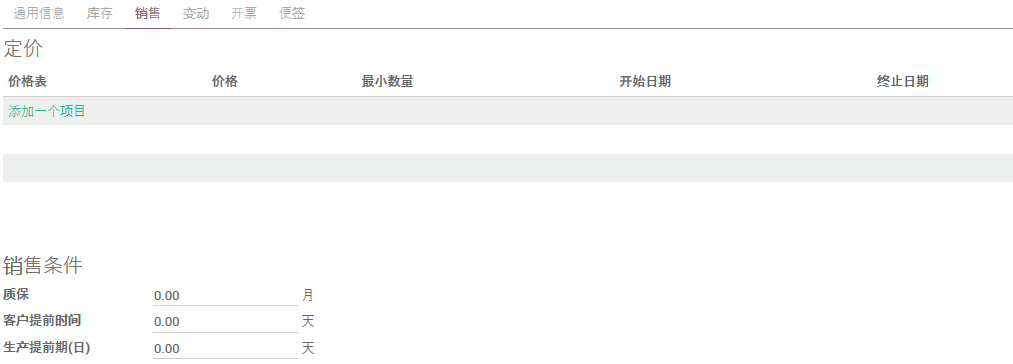
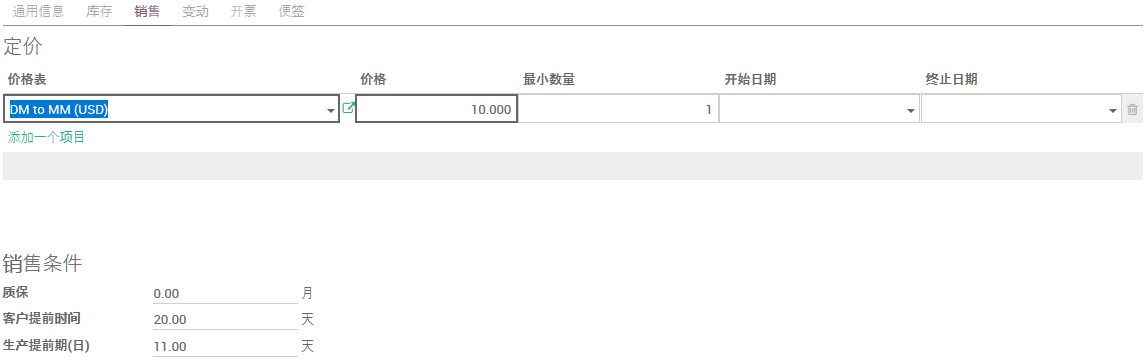
继续完成“产品”，“产品类别”手册。

diff --git a/INV/product.md b/INV/product.md
@@ -22,3 +22,107 @@
 * 具形实物
 * 价格、价值较低，不值得投入时间、精力去管理存货的产品
 * 可调拨，但无实际库存记录，无需盘点
+
+## 新建产品
+
+* 路径1：销售模块 -> 销售 -> 产品
+* 路径2：采购模块 -> 采购 -> 产品
+* 路径3：存货模块 -> 库存控制 -> 产品
+* 路径4：制造模块 -> 产品 -> 产品
+* 路径5：PLM模块 -> 主数据 -> 产品
+
+根据路径不同，进入产品列表（看板）界面时自动应用的删选器会有差异，可根据需要调整筛选器。
+
+![产品：筛选器](_images/product6.PNG)
+
+点击`创建`按钮，以新建产品。
+
+### 产品名称
+
+![产品名称](_images/product.PNG)
+
+使用长度适中且明具分辨力的`产品名称`，对该产品信息在后续的使用非常有利。
+
+* 第一个单词或短语明确产品的实质
+* 根据需要附加适当、适量的限制性短语
+* 若有必要，附上关键的、指标性的技术规格
+* 总体长度要适中
+* 更多、更详细的内容可根据受众分置`报价说明`、`供应商说明`、`拣货描述`
+
+![便签](_images/product5.PNG)
+
+* 根据产品的用途勾选`可销售`、`可被采购`、`可以被费用化`
+
+### 产品通用信息
+
+![产品通用信息](_images/product1.PNG)
+
+* 根据上文选择正确的`产品类型`
+* 输入产品`编码`（Part Number）
+* 选择合理的`内部分类`（参考[产品类别](category.md))
+* `标价`用以记录产品的公开价（也叫目录价格）
+* `成本`通常不包含税金
+* 在多公司环境，`公司`决定了产品`标价`及`成本`等信息的币别
+* `计量单位`为该产品在组织内部存储、流通所用
+* 采购计量单位在采购订单中使用
+* `控制采购订单`为供应商账单的开具方式：
+  * 按`订购数量`开具账单，不管是否已经收货，也不管收货数量多少
+  * 按`收到数量`开具账单，则到货开账单，到多少开多少
+
+### 产品库存
+
+![产品库存](_images/product2.PNG)
+
+* 参考[使用(需求)路线](MRP/using_routes.md)来勾选`路线`
+* `毛重`为1`计量单位`该产品的重量，以公斤计数，不含任何包材
+* `体积`为1`计量单位`该产品的占地尺寸，以立方米计数
+* `跟踪`
+  * `由唯一序列号`：每1`计量单位`该产品都有唯一的跟踪号
+  * `由很多`：每一跟踪批号对应的批量大小通常大于1
+  * `无跟踪信息`：该产品无需跟踪批次
+
+### 供应商报价
+
+![供应商报价：列表](_images/product7.PNG)
+
+* 通过拖动报价行左侧的十字锚可以调整报价的优先顺序
+* 可点击报价行右侧的垃圾桶移除该项报价
+
+![供应商报价：新建](_images/product8.PNG)
+
+* 选择`供应商`
+* 根据需要输入`供应商产品名称`
+* 根据需要输入`供应商产品编码`
+* 输入(供应商)`交货提前期`
+* 在`最少数量`栏输入起订量
+* 输入该起订量对应的`价格`并选择币别
+* 若报价指定了`有效`期，请选择起止日期
+
+### 销售报价
+
+![销售报价](_images/product3.PNG)
+
+* 选择适当的`价格表`
+* 输入`价格`
+* 输入`最小数量`（起订量）
+* 输入报价有效期的`开始日期`和`终止日期`（若有）
+
+* 输入产品的`质保`期(月)
+* 输入`客户提前时间`(日)
+* 输入`生产提前期(日)`
+
+### 税及开票
+
+![税及开票](_images/product4.PNG)
+
+* 选择正确的`客户税`
+  * 出口产品选择 `Export Tax Free`
+  * 国内销售产品选择：
+    * 价内含税： `17% VAT Incl.(s)`
+    * 价外附税： `17%销项税 DG`
+* 选择正确的`供应商税`
+  * 价内含税 `17%进项税 DG含税`, 默认选择
+  * 价外附税 `进项税17% DG`
+* `发票开具策略`
+  * `已定数量`, 一旦销售订单确认，即可开出全额发票
+  * `已送数量`, 只能根据交付数量开出发票，不能提前，不能多开

diff --git a/INV/category.md b/INV/category.md
@@ -1,45 +1,44 @@
 # 产品类别
 
-* FG
-  * Assembly
-    * Customer1
+* FG (成品)
+  * Assembly (装配)
+    * Customer1 (客户)
     * ...
-  * Cable
-    * Customer1
+  * Cable (线束)
+    * Customer1 (客户)
     * ...
-  * Plastic
-    * Customer1
+  * Plastic (注塑)
+    * Customer1 (客户)
     * ...
-* SFG
-  * Assembly
-    * Customer1
+* SFG (半成品)
+  * Assembly (装配)
+    * Customer1 (客户)
     * ...
-  * Cable
-    * Customer1
+  * Cable (线束)
+    * Customer1 (客户)
     * ...
-  * Plastic
-    * Customer1
+  * Plastic (注塑)
+    * Customer1 (客户)
     * ...
-* RM
-  * Accessory
-  * Connector
-  * Metal
-  * Metal Parts
-  * Packing
-  * Plastic Parts
-  * Resin
-  * Wire Harness
-  * Indirect
+* RM (原料)
+  * Accessory (配件)
+  * Metal (金属材料)
+  * Metal Parts (金属件)
+  * Packing (包材)
+  * Plastic Parts (塑胶件)
+  * Resin (胶料)
+  * Wire Harness (线束)
+  * Indirect (辅料)
   * ...
-* Trade
-  * Customer1
+* Trade (贸易类)
+  * Customer1 (客户)
   * ...
-* Others
-  * Equipment
-  * Expenses
-  * Office
-  * services
-  * Hardware
-  * Fixed Assets
-  * Consumable
-  * Mold
+* Others (其它)
+  * Equipment (设备)
+  * Expenses (费用)
+  * Office (办公用品)
+  * services (服务)
+  * Hardware (硬件)
+  * Fixed Assets (固定资产)
+  * Consumable (易耗品)
+  * Mold (模具)

diff --git a/glossary.md b/glossary.md
@@ -9,7 +9,8 @@ Procurement Order | 补货 | 需求单 |
 Order Point | 补货规则 | 重订货规则 |
 Sales Safety Days* | 销售安全天数* | 公司销售前置期 | 公司销售提前期
 Purchase Lead Time* | 采购前置时间* | 公司采购前置期 | 公司采购提前时间
-Manufacturing Lead Time* | 生产前置时间* | |
+Manufacturing Lead Time* | 生产前置时间* | 生产提前期(日) |
+Customer Lead Time | 客户提前时间 | | |
 Job Position | 职位 | 工作岗位 |
 Product Category | 产品类别 | 内部分类 | 产品分类
 

diff --git a/SUMMARY.md b/SUMMARY.md
@@ -14,9 +14,9 @@
 * [存货](INV/README.md)
   * [产品类别](INV/category.md)
   * [产品](INV/product.md)
-* [制造](MRP/README.md)
   * [(需求)路线](MRP/Routes.md)
   * [使用(需求)路线](MRP/using_routes.md)
+* [制造](MRP/README.md)
   * [Manufacturing Lead Time](MRP/manufacturing_lead_time.md)
   * [工程变更](PLM/ECO.md)
   * [应用制造模块的高级功能](MRP/adv_manufacturing.md)

diff --git a/INV/README.md b/INV/README.md
@@ -2,3 +2,5 @@
 
 * [产品类别](category.md)
 * [产品](product.md)
+* [(需求)路线](../MRP/Routes.md)
+* [使用(需求)路线](../MRP/using_routes.md)
